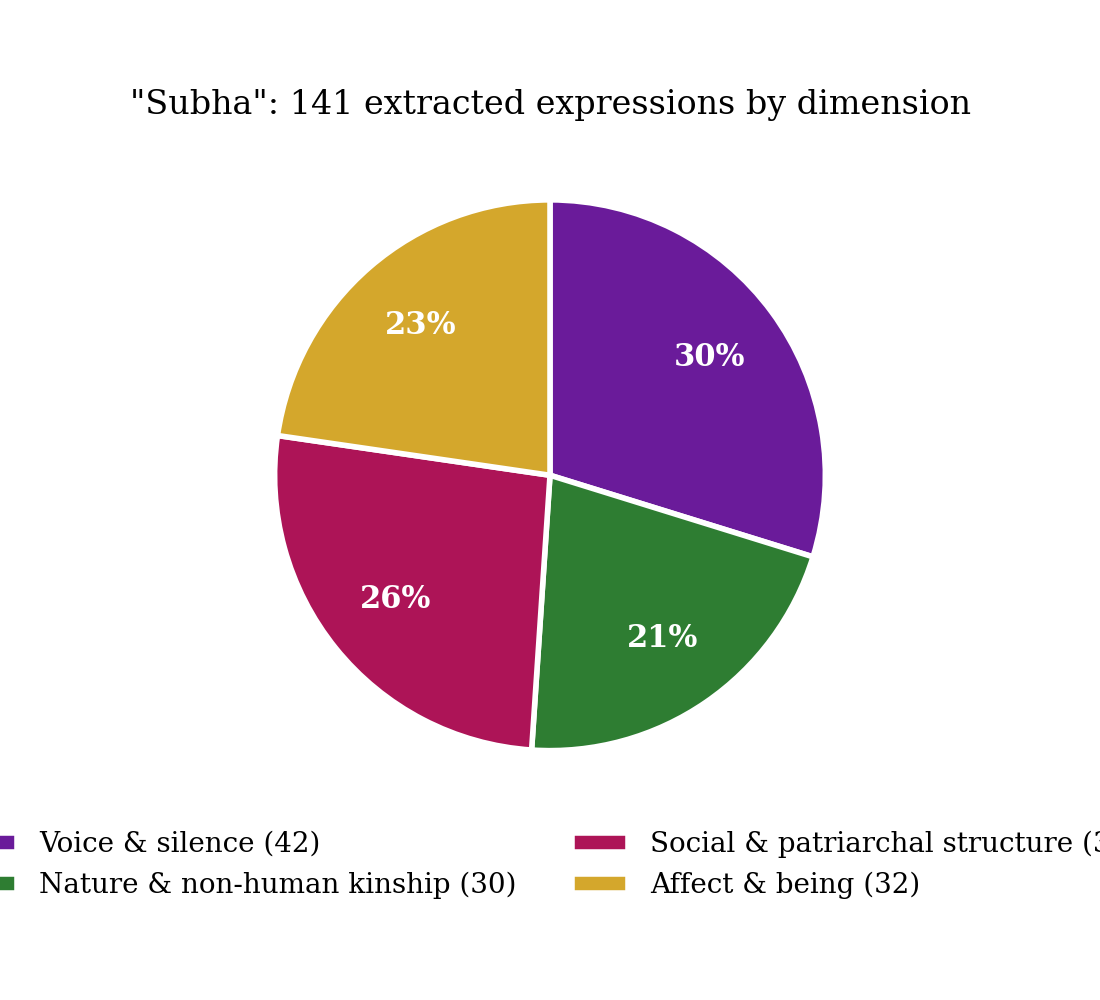
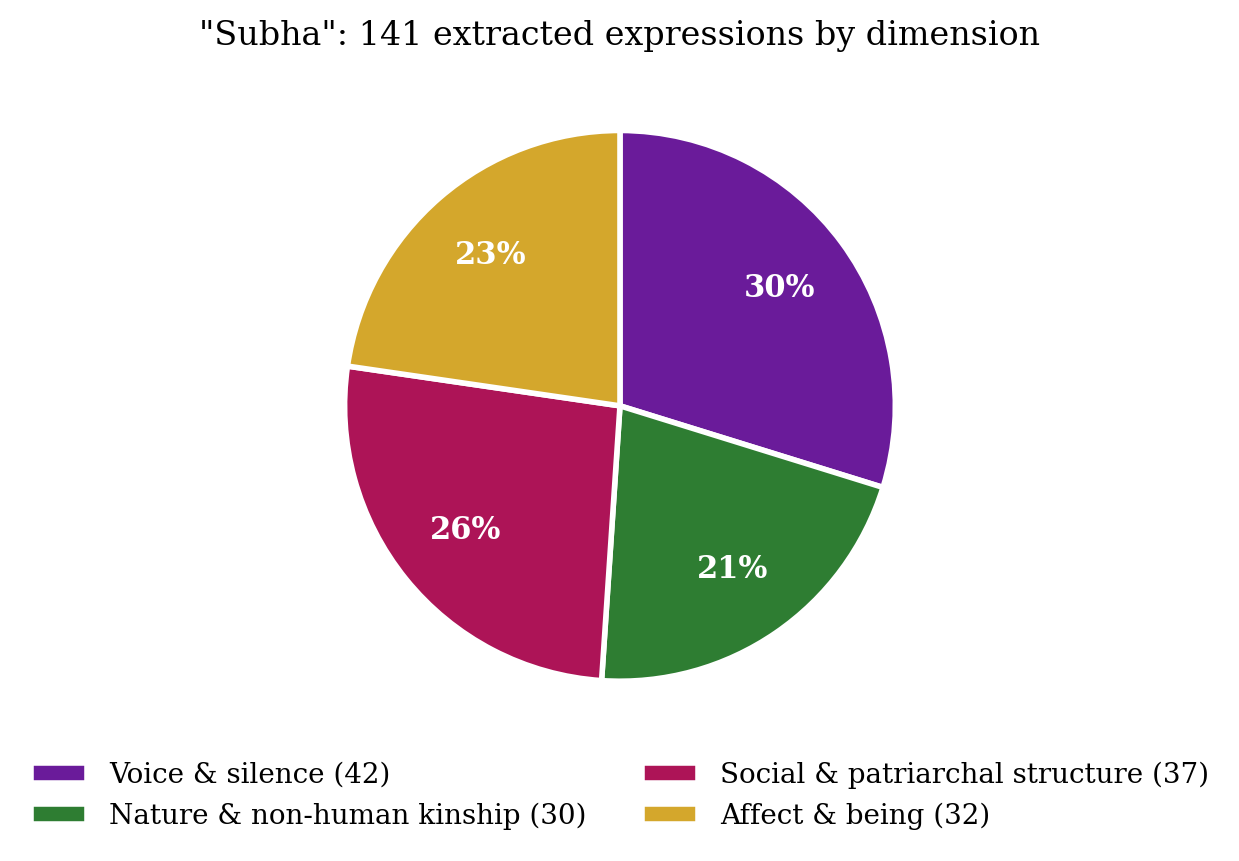
Keep the whole legend in the dimension pie chart

diff --git a/visualise.py b/visualise.py
@@ -109,7 +109,7 @@ ax.legend([f"{label} ({n})" for (_, label, _), n in zip(DIMS, totals)],
           loc="upper center", bbox_to_anchor=(0.5, 0.02), ncol=2, frameon=False)
 ax.set_title(f'"Subha": {sum(totals)} extracted expressions by dimension')
 fig.tight_layout()
-fig.savefig(FIG / "dimension_share.png", dpi=200)
+fig.savefig(FIG / "dimension_share.png", dpi=200, bbox_inches="tight")
 plt.close(fig)
 
 # ---- Figure 4: sentence-by-sentence "barcode" heatmap ------------------------
